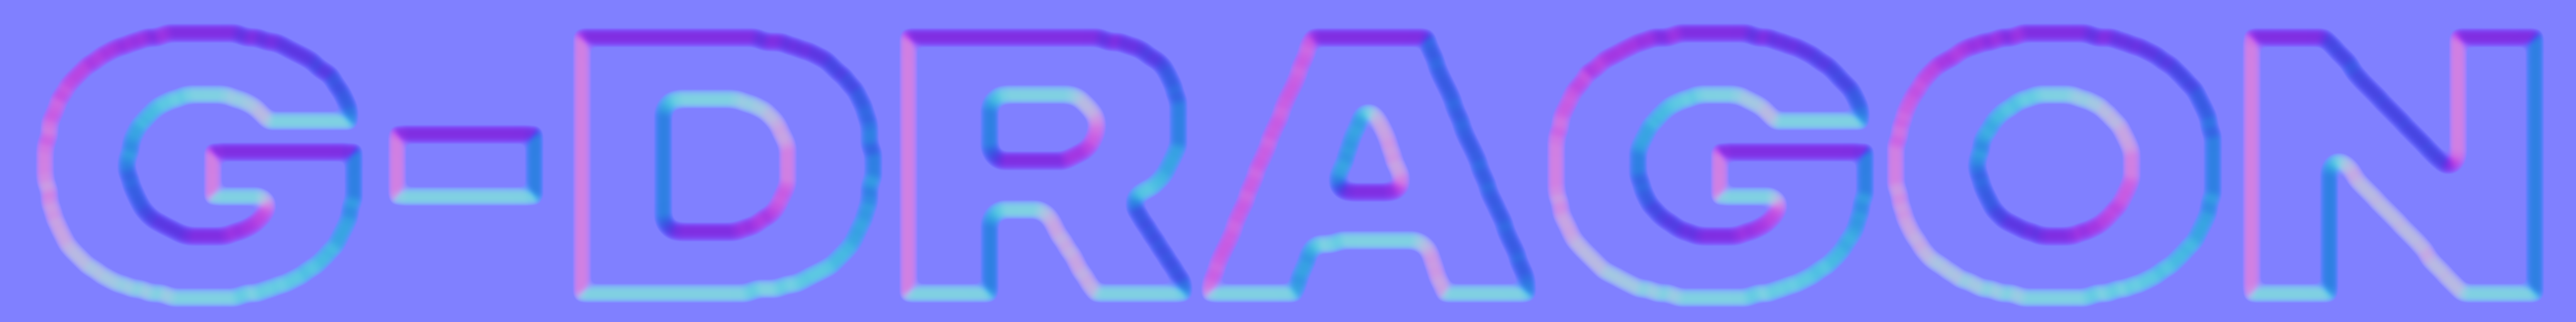
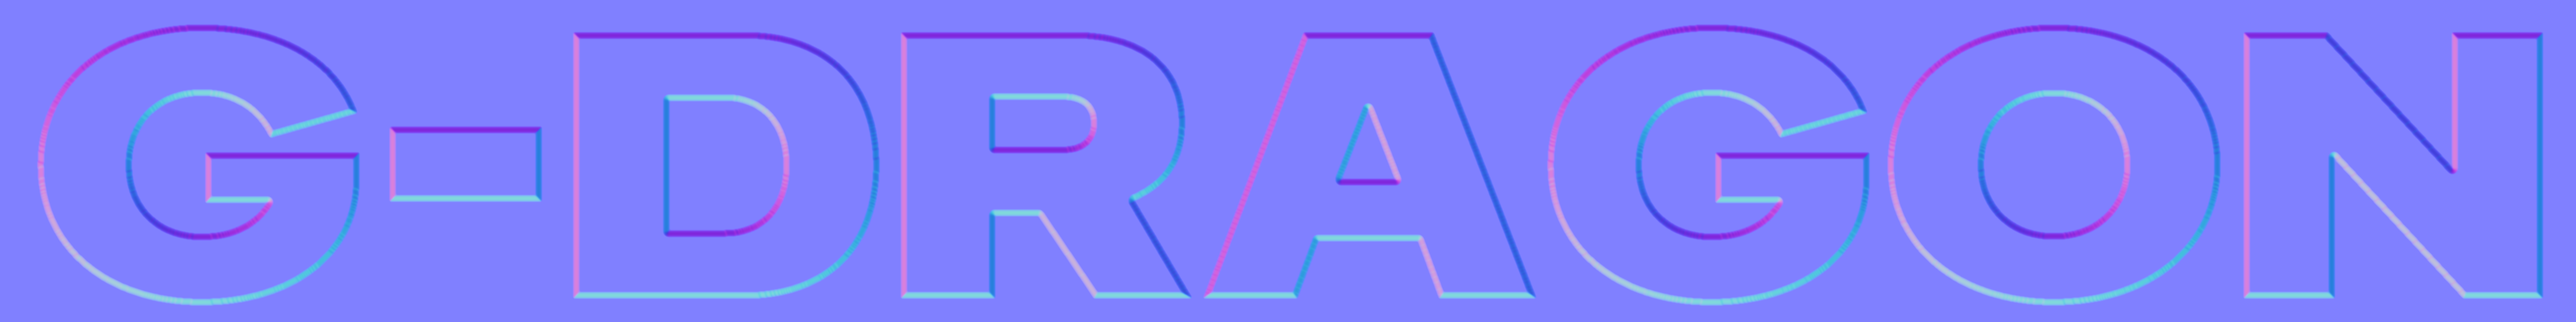
각인 글자 윤곽을 곡선으로 다시 그려 확대 품질 개선

Changed region(s): [[0.0, 0.0625, 1.0, 0.9688], [0.0312, 0.8125, 0.125, 0.9688], [0.0312, 0.0938, 0.125, 0.2188]]

diff --git a/player2/index.html b/player2/index.html
@@ -772,8 +772,8 @@ input[type=range]{flex:1;min-width:120px;accent-color:var(--fg)}
 
   function makeDaisyWordmark(skin){
     var loader=new THREE.TextureLoader();
-    var matte=loader.load('gd-wordmark-color.png');
-    var relief=loader.load('gd-wordmark-normal.png');
+    var matte=loader.load('gd-wordmark-color.png?v=2');
+    var relief=loader.load('gd-wordmark-normal.png?v=2');
     matte.encoding=THREE.sRGBEncoding;
     var anisotropy=renderer.capabilities.getMaxAnisotropy();
     matte.anisotropy=anisotropy;
